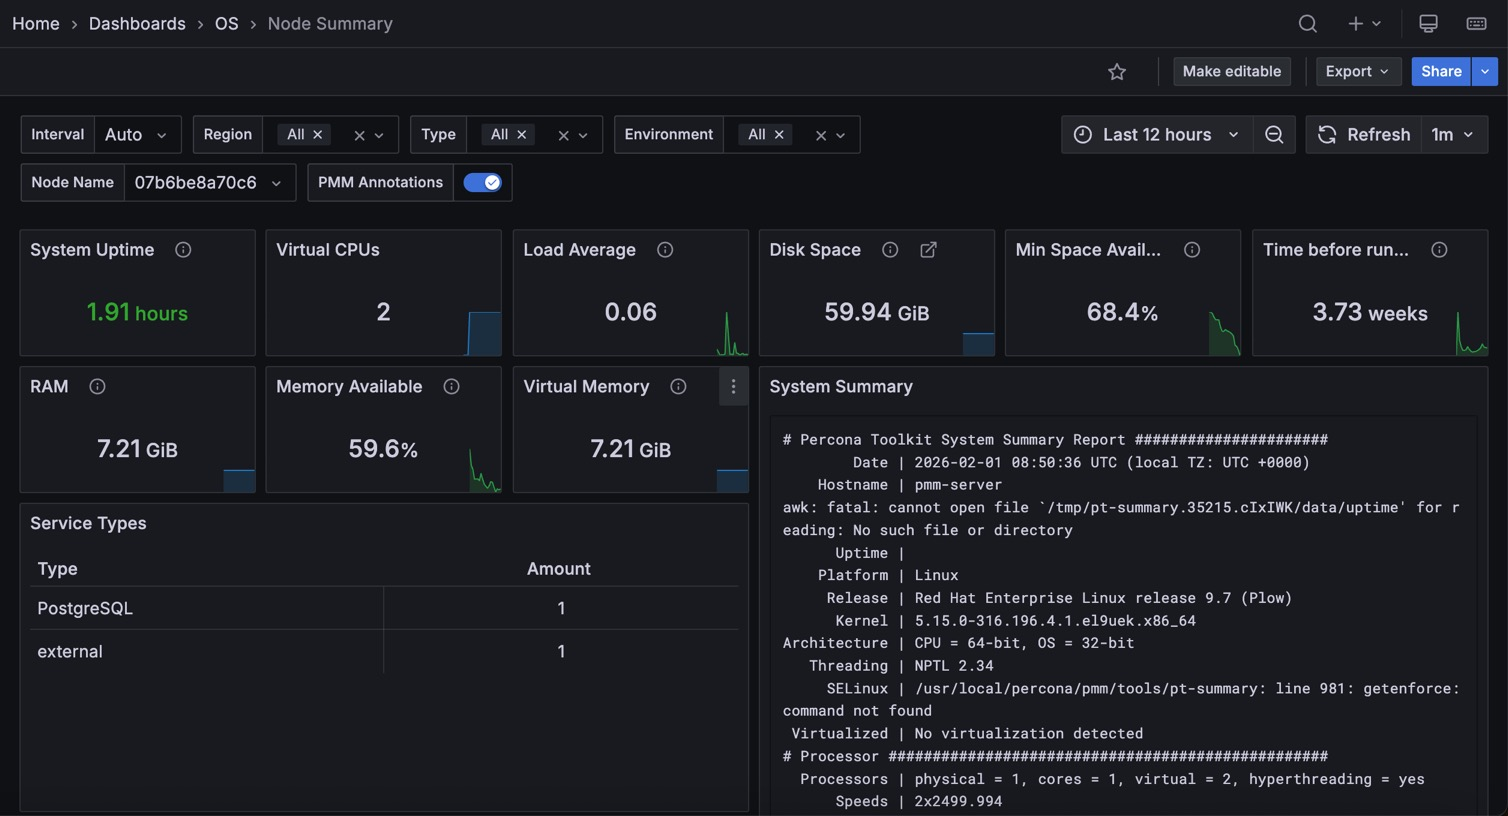
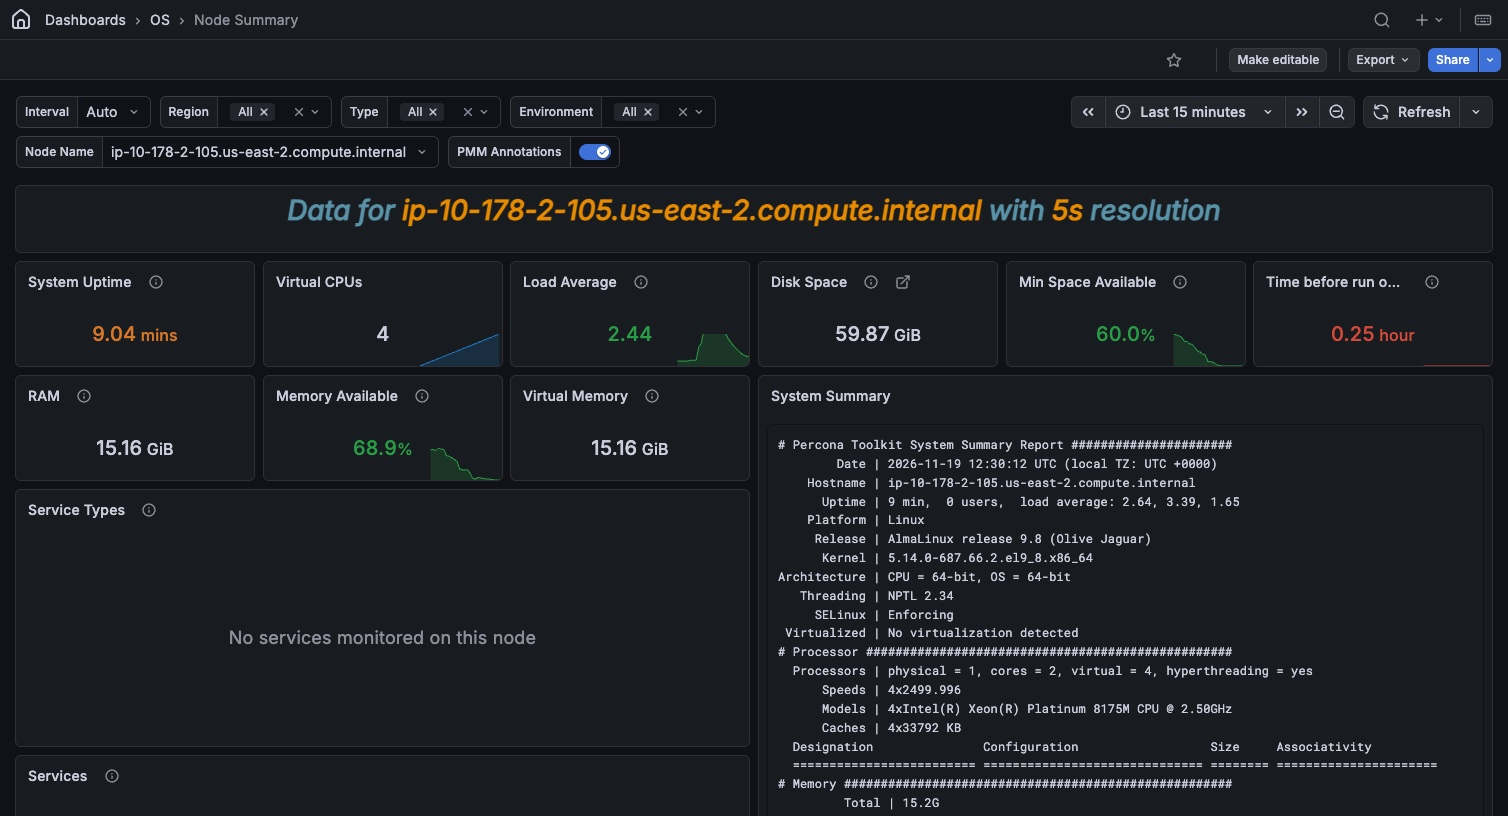
content review

diff --git a/documentation/docs/reference/dashboards/dashboard-node-summary.md b/documentation/docs/reference/dashboards/dashboard-node-summary.md
@@ -2,17 +2,21 @@
 
 ![!image](../../images/PMM_Node_Summary.jpg)
 
+## Load Average
+
+The average number of processes that are running or waiting for CPU. The value turns orange when the load reaches the number of virtual CPUs, and red at twice that number.
+
 ## System Summary
 
-The output from ``pt-summary``, one of the [Percona Toolkit utilities](https://www.percona.com/doc/percona-toolkit/LATEST/pt-summary.html). The report is collected on the node that you select in the **Node Name** list, and it follows the selection when you change it.
+The output from ``pt-summary``, one of the [Percona Toolkit utilities](https://www.percona.com/doc/percona-toolkit/LATEST/pt-summary.html). It shows the report for the node that you select in the **Node Name** list.
 
 ## Service Types
 
-The number of monitored services on the node, by type. The count is based on the service health metrics, such as `mongodb_up`, so arbiters and services that are down are included.
+The number of monitored services on the node, by type. Arbiters and services that are down are counted too.
 
 ## Services
 
-The health of each monitored service on the node. The **Status** column shows **UP** when the exporter reports that the service is reachable, and **DOWN** when it doesn't. For external services and HAProxy, the status is the scrape status of the exporter. If the node has no monitored services, the panel shows **No services monitored on this node**.
+Whether each monitored service on the node is running. The **Status** column shows **UP** when the service is reachable, and **DOWN** when it isn't. For external services and HAProxy, **UP** means that PMM can collect metrics from their exporter. If the node has no monitored services, the panel shows **No services monitored on this node**.
 
 ## CPU Usage
 
@@ -39,7 +43,7 @@ Disk I/O includes read or write or input/output operations involving a physical 
 
 ## Disk Operations
 
-The number of physical I/O operations per second that the disks of the node serve. Reads are plotted above the axis and writes below it. Spikes in the number of operations often correspond to performance problems caused by an overloaded I/O subsystem. Devices that are stacked on other devices, such as LVM and software RAID (`dm-*` and `md*`), are excluded so that the same I/O isn't counted twice.
+The number of read and write operations per second on the node's disks. Reads are shown above the axis and writes below it. Sudden spikes often mean that the disks are overloaded. LVM and software RAID devices (`dm-*` and `md*`) aren't included, so the same operation isn't counted twice.
 
 ## Disk IO Latency
 
@@ -47,11 +51,15 @@ Shows average latency for Reads and Writes IO Devices.  Higher than typical late
 
 ## Disk IO Utilization
 
-The percentage of time that each disk had at least one I/O request in flight. The value matches `%util` in the `iostat` tool. Higher utilization increases the likelihood of I/O queuing, so consider it together with latency and I/O load.
+The percentage of time that each disk was busy with at least one I/O request. It's the same value as `%util` in `iostat`. The higher it is, the more likely requests are to wait in a queue, so check it together with **Disk IO Latency** and **Disk IO Load**.
 
 ## Disk IO Load
 
 Shows how much disk was loaded for reads or writes as average number of outstanding requests at different period of time.  High disk load is a good measure of actual storage utilization. Different storage types handle load differently - some will show latency increases on low loads others can handle higher load with no problems.
+
+## Global File Descriptors Usage
+
+The number of files open on the node. If the system has no real limit, the limit isn't shown, so the chart stays readable.
 
 ## Network Traffic
 

diff --git a/documentation/docs/release-notes/next.md b/documentation/docs/release-notes/next.md
@@ -46,7 +46,7 @@ You get the same services, nodes and agents, now with:
 
 - [PMM-15845](https://perconadev.atlassian.net/browse/PMM-15845): Fixed an issue where forms in PMM Extensions apps checked some rules that involve several fields only after you submitted the form, and then showed the error in a banner without marking a field. These rules are now checked while you fill in the form. For example, in **Apps > MySQL Backups**, choosing a GPG **Encryption format** with neither **Encrypt backup** nor **Encrypt after backup completes** turned on shows the error on both switches, and the backup isn't created until you fix it. For details, see [Encrypt backups](../apps/mysql-backup.md#encrypt-backups).
 
-- [PMM-15901](https://perconadev.atlassian.net/browse/PMM-15901): Fixed several issues on the [Node Summary](../reference/dashboards/dashboard-node-summary.md) dashboard. **System Summary** now shows the report of the node that you select, not the report of PMM Server. **Services** and **Service Types** now show every monitored service, including arbiters, ProxySQL and Valkey, and **Services** marks a service that is down as **DOWN**. **Global File Descriptors Usage** now hides the limit when the kernel reports it as unlimited. **Load Average** turns orange at one task per virtual CPU and red at two, instead of at fixed values. The dashboard also has two new panels, **Disk Operations** and **Disk IO Utilization**.
+- [PMM-15901](https://perconadev.atlassian.net/browse/PMM-15901): Fixed an issue where the [Node Summary](../reference/dashboards/dashboard-node-summary.md) dashboard could show information about the wrong node, or miss some of its services. The dashboard now correctly shows the system details of the node you select instead of PMM Server, and lists all its monitored services, including arbiters, ProxySQL and Valkey, with whether each one is up or down. It also has new **Disk Operations** and **Disk IO Utilization** panels, so you can spot when the node's disks are overloaded.
 
 - [PMM-7](https://perconadev.atlassian.net/browse/PMM-7): Updated the Grafana ClickHouse data source plugin to v4.23.4, built with Go 1.27.3. This fixes the high-severity Go vulnerabilities that image scanners reported in v4.21.3, including [CVE-2026-78669](https://nvd.nist.gov/vuln/detail/CVE-2026-78669) and the standard library findings listed in the [PMM 3.10.0 release notes](3.10.0.md#go-standard-library-vulnerabilities-in-the-clickhouse-data-source).
 
